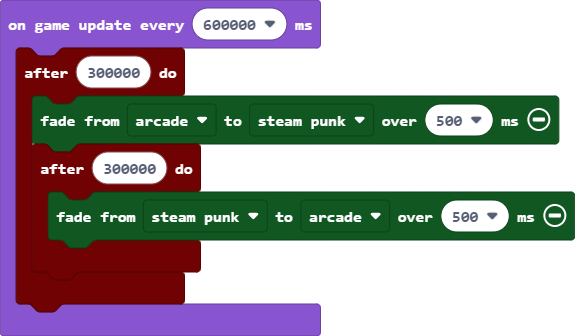
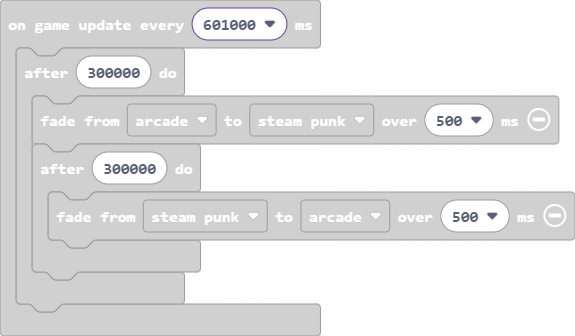
Update main.blocks, main.ts

diff --git a/main.ts b/main.ts
@@ -1098,7 +1098,7 @@ let projectile2 = sprites.createProjectileFromSprite(img`
     . . . . f f f f f f f f f . . . 
     `, mySprite, 0, 0)
 tiles.placeOnTile(projectile2, tiles.getTileLocation(53, 19))
-game.onUpdateInterval(600000, function () {
+game.onUpdateInterval(601000, function () {
     timer.after(300000, function () {
         color.startFade(color.Arcade, color.SteamPunk, 500)
         timer.after(300000, function () {
